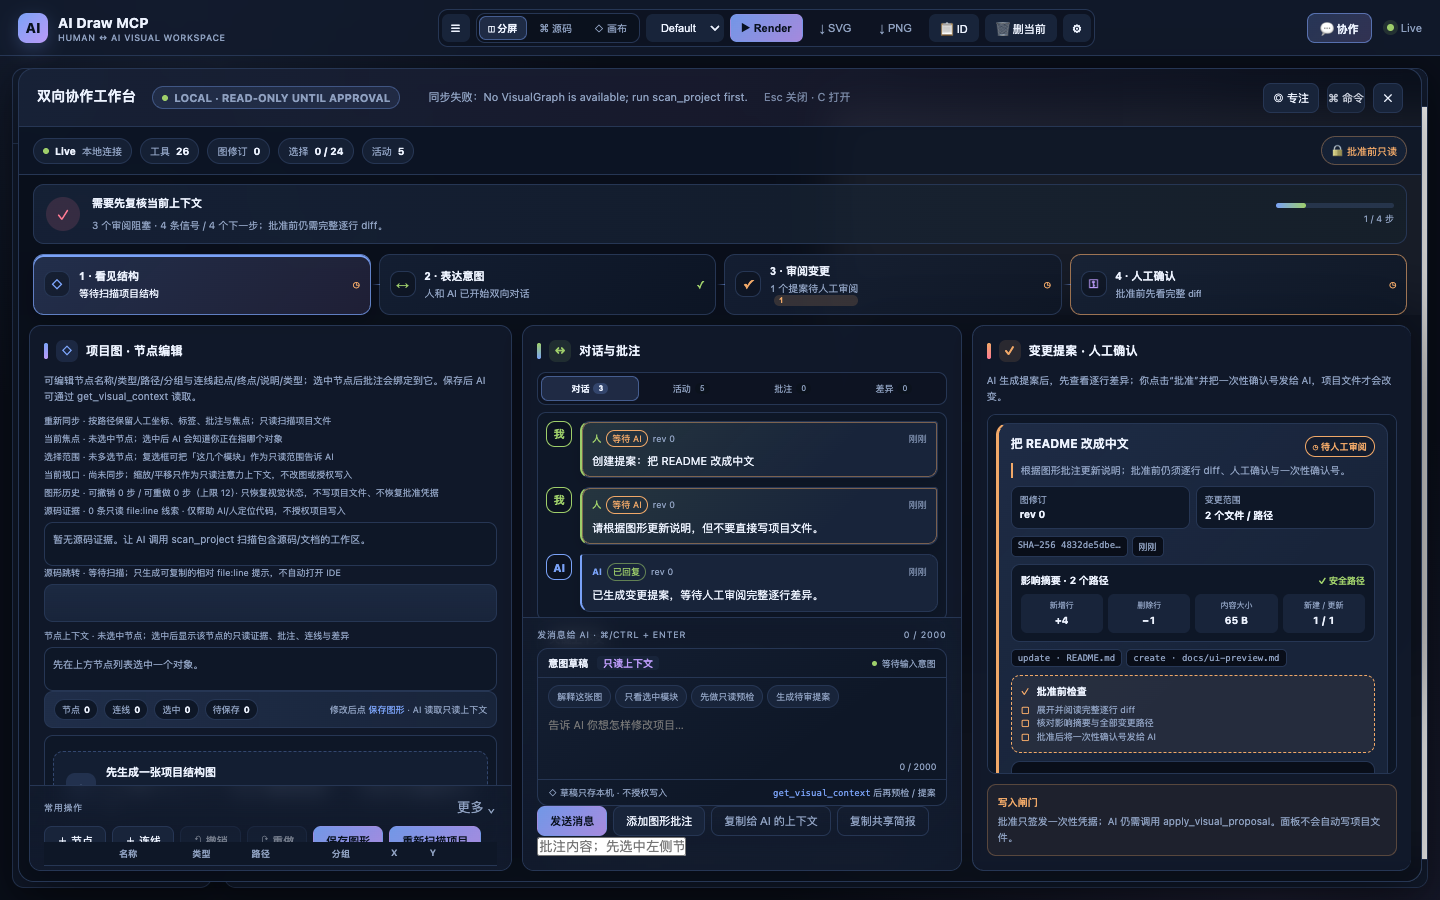
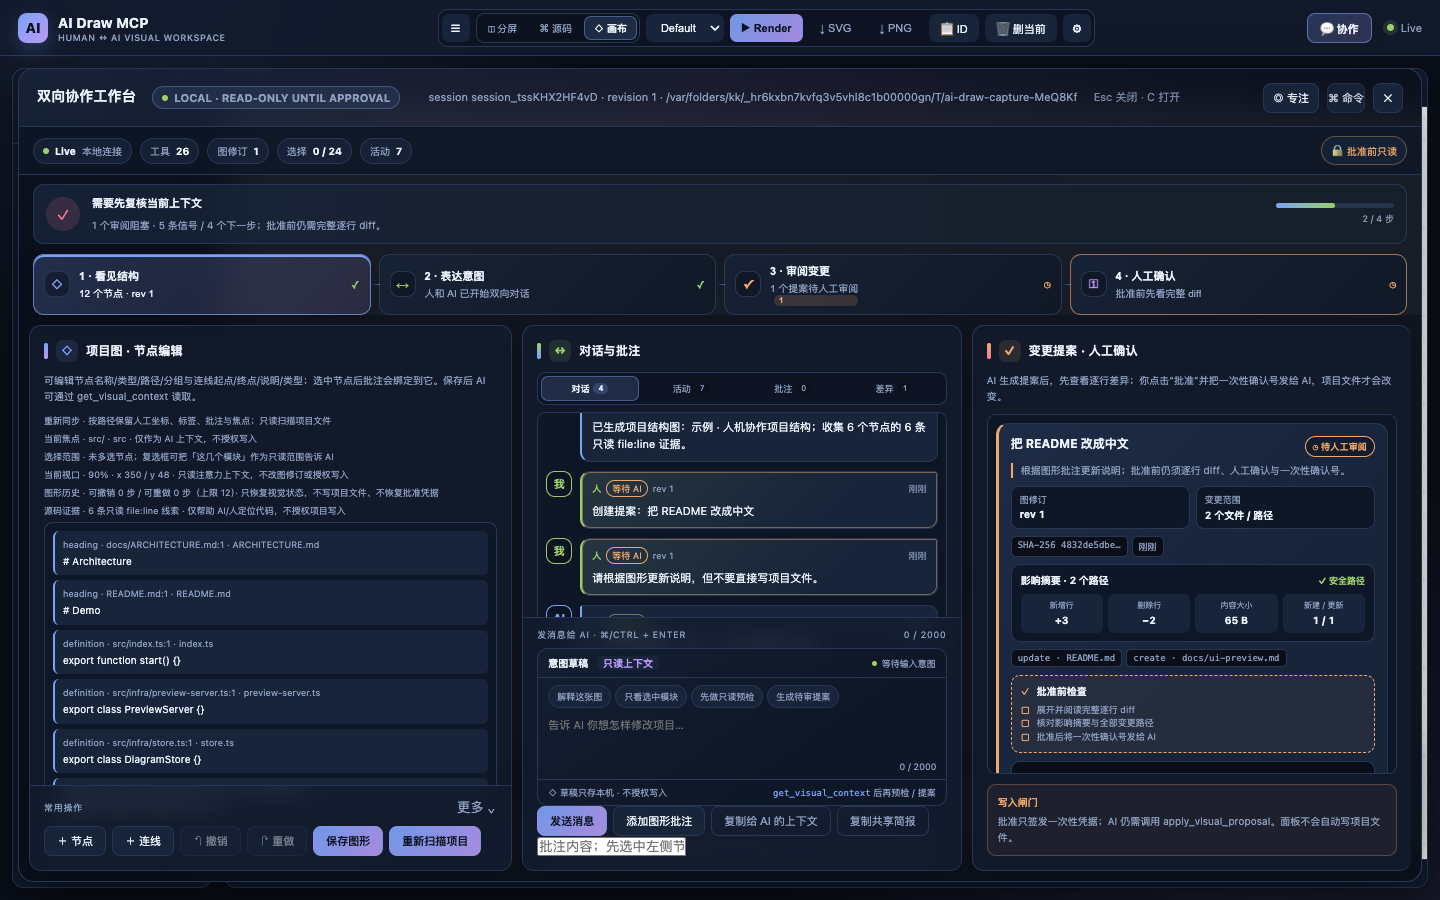
feat: polish canvas workbench and floating dock

diff --git a/src/infra/templates/index.html b/src/infra/templates/index.html
@@ -37,8 +37,13 @@
     body.theme-light .header, body.theme-light .collab-shell { background: rgba(255,255,255,.92); }
     body.theme-light .sidebar, body.theme-light .workspace, body.theme-light .pane, body.theme-light .collab-section { background: rgba(255,255,255,.86); }
     body.theme-light .collab-body { background: rgba(238,243,251,.72); }
-    body.theme-light .preview-wrap { background: #ffffff; }
-    body.theme-light .preview-wrap.dark-bg { background: radial-gradient(circle at 50% 30%, #33476b, #111c31); }
+  body.theme-light .preview-wrap { background-color: #ffffff; background-image: radial-gradient(rgba(99, 132, 191, .14) .8px, transparent .8px); }
+  body.theme-light .preview-wrap.dark-bg {
+    background-color: #111c31;
+    background-image: radial-gradient(circle at 50% 30%, #33476b, #111c31),
+                      radial-gradient(rgba(122, 162, 247, .14) .8px, transparent .8px);
+    background-size: auto, 22px 22px;
+  }
     body.theme-light .graph-editor, body.theme-light .chat-log, body.theme-light .proposal-list,
     body.theme-light .diagnostics-list, body.theme-light .empty-state { background: #f5f8fd; }
     body.theme-light #codeEditor { background: #f8fbff; color: #24334c; }
@@ -147,9 +152,16 @@
     /* Diagram preview */
     .preview-wrap {
       flex: 1; overflow: hidden; position: relative;
-      background: #ffffff;
+      background-color: #ffffff;
+      background-image: radial-gradient(rgba(99, 132, 191, .16) .8px, transparent .8px);
+      background-size: 22px 22px;
     }
-    .preview-wrap.dark-bg { background: radial-gradient(circle at 50% 30%, #15243d, #0b1220); }
+    .preview-wrap.dark-bg {
+      background-color: #0b1220;
+      background-image: radial-gradient(circle at 50% 30%, #15243d, #0b1220),
+                        radial-gradient(rgba(122, 162, 247, .14) .8px, transparent .8px);
+      background-size: auto, 22px 22px;
+    }
     .welcome-card {
       position: absolute; inset: 50% auto auto 50%; z-index: 12;
       width: min(720px, calc(100% - 48px)); transform: translate(-50%, -50%);
@@ -159,6 +171,7 @@
       box-shadow: 0 28px 80px rgba(0,0,0,.54), inset 0 1px 0 rgba(255,255,255,.06);
       text-align: left; pointer-events: auto;
     }
+    .welcome-card[hidden] { display: none; }
     .welcome-main { padding: 26px 25px 22px; }
     .welcome-kicker { display: inline-flex; align-items: center; gap: 6px; margin-bottom: 14px; padding: 4px 9px; border: 1px solid rgba(122,162,247,.42); border-radius: 999px; background: rgba(122,162,247,.10); color: var(--accent); font-size: 9px; font-weight: 800; letter-spacing: .07em; }
     .welcome-kicker::before { content: ''; width: 6px; height: 6px; border-radius: 50%; background: var(--green); box-shadow: 0 0 0 4px rgba(158,206,106,.14); }
@@ -216,13 +229,14 @@
     #minimap {
       position: absolute; bottom: 14px; right: 14px; z-index: 20;
       width: 168px; height: 112px;
-      background: rgba(9, 14, 25, 0.88);
+      background: #eef3fb;
       border: 1px solid var(--border);
       border-radius: 10px; overflow: hidden;
       box-shadow: 0 8px 24px rgba(0,0,0,.45);
       backdrop-filter: blur(10px);
       cursor: crosshair;
     }
+    .preview-wrap.dark-bg #minimap { background: #0f1b2f; }
     #minimapContent {
       position: absolute; inset: 0; overflow: hidden;
     }
@@ -385,6 +399,43 @@
     .canvas-chip::before { content: ''; width: 6px; height: 6px; border-radius: 50%; background: var(--accent); }
     .workspace[data-view="canvas"] .canvas-chip { display: flex; }
     .workspace.welcome #minimap, .workspace.welcome .canvas-chip { display: none; }
+    .canvas-dock {
+      position: absolute; left: 14px; bottom: 14px; z-index: 22; display: none;
+      align-items: center; gap: 9px; padding: 6px 7px; border: 1px solid var(--border);
+      border-radius: 13px; background: rgba(9,14,25,.9); box-shadow: 0 10px 28px rgba(0,0,0,.28);
+      backdrop-filter: blur(14px);
+    }
+    .workspace:not(.welcome) .canvas-dock { display: flex; }
+    .workspace[data-view="canvas"] .canvas-dock { bottom: 54px; }
+    .canvas-dock-status {
+      display: flex; align-items: center; gap: 7px; min-width: 0; padding: 0 5px 0 3px;
+      border-right: 1px solid var(--border);
+    }
+    .canvas-dock-status::before {
+      content: ''; width: 7px; height: 7px; flex-shrink: 0; border-radius: 50%;
+      background: var(--green); box-shadow: 0 0 0 4px rgba(158,206,106,.12);
+    }
+    .canvas-dock-label { min-width: 0; }
+    .canvas-dock-label strong { display: block; overflow: hidden; max-width: 150px; color: var(--text); font-size: 10px; text-overflow: ellipsis; white-space: nowrap; }
+    .canvas-dock-label span { display: block; color: var(--text-muted); font-size: 8px; letter-spacing: .05em; text-transform: uppercase; }
+    .canvas-dock-group { display: flex; align-items: center; gap: 2px; padding: 2px; border: 1px solid var(--border); border-radius: 9px; background: rgba(0,0,0,.14); }
+    .canvas-dock button { height: 27px; padding: 0 8px; border: 1px solid transparent; border-radius: 7px; background: transparent; color: var(--text-muted); font-size: 10px; cursor: pointer; transition: color .15s, background .15s, border-color .15s, transform .15s; }
+    .canvas-dock button:hover { border-color: rgba(122,162,247,.45); background: rgba(122,162,247,.13); color: var(--text); transform: translateY(-1px); }
+    .canvas-dock button.primary { background: rgba(122,162,247,.16); color: var(--accent); font-weight: 700; }
+    .canvas-dock button[aria-pressed="true"] { background: rgba(122,162,247,.18); color: var(--accent); }
+    .canvas-dock .zoom-readout { min-width: 40px; padding: 0 4px; color: var(--text); font-size: 10px; font-variant-numeric: tabular-nums; font-weight: 700; text-align: center; }
+    .canvas-dock-divider { width: 1px; height: 20px; margin: 0 1px; background: var(--border); }
+    body.theme-light .canvas-dock { background: rgba(255,255,255,.92); }
+    body.theme-light .canvas-dock-group { background: #f2f6fd; }
+    @media (max-width: 860px) {
+      .canvas-dock-status { display: none; }
+      .canvas-dock { gap: 4px; }
+    }
+    @media (max-width: 620px) {
+      .canvas-dock { left: 7px; right: 7px; bottom: 7px; overflow-x: auto; }
+      .workspace[data-view="canvas"] .canvas-dock { bottom: 46px; }
+      .canvas-dock button { flex: 0 0 auto; }
+    }
     button:focus-visible, select:focus-visible, input:focus-visible, textarea:focus-visible, summary:focus-visible {
       outline: 2px solid rgba(122,162,247,.85); outline-offset: 2px;
     }
@@ -1034,6 +1085,21 @@
             <div id="minimapContent"></div>
             <div id="minimapViewport"></div>
           </div>
+          <div class="canvas-dock" aria-label="画布快捷操作">
+            <div class="canvas-dock-status">
+              <div class="canvas-dock-label"><strong id="canvasDiagramLabel">本机预览</strong><span>Live · read-only until approval</span></div>
+            </div>
+            <div class="canvas-dock-group">
+              <button type="button" id="btnCanvasZoomOut" title="缩小">−</button>
+              <span class="zoom-readout" id="canvasZoomLabel">100%</span>
+              <button type="button" id="btnCanvasZoomIn" title="放大">＋</button>
+              <button type="button" id="btnCanvasZoomFit" title="适应窗口 (F)">⊡ 适应</button>
+            </div>
+            <button type="button" id="btnCanvasBackdrop" aria-pressed="false" title="切换画布背景">◐ 背景</button>
+            <div class="canvas-dock-divider" aria-hidden="true"></div>
+            <button type="button" id="btnCanvasCollab" class="primary" title="打开双向协作工作台 (C)">↔ 协作</button>
+            <button type="button" id="btnCanvasCommands" title="打开命令面板 (?)">⌘</button>
+          </div>
           <div class="canvas-chip">画布模式 · 滚轮缩放 / 拖拽平移 / F 适应窗口</div>
         </div>
       </div>
@@ -1393,26 +1459,53 @@ function scheduleViewportSync() {
 
 function applyTransform() {
   $('#diagramRender').style.transform = `translate(${zX}px,${zY}px) scale(${zScale})`;
-  $('#zoomLabel').textContent = `${Math.round(zScale * 100)}%`;
+  const zoomLabel = `${Math.round(zScale * 100)}%`;
+  $('#zoomLabel').textContent = zoomLabel;
+  $('#canvasZoomLabel').textContent = zoomLabel;
+  updateCanvasDock();
   scheduleMinimapUpdate();
   scheduleViewportSync();
 }
 
+function updateCanvasDock() {
+  const title = $('#diagramTitle').textContent.trim();
+  const meaningfulTitle = title && title !== '—' ? title : '本机预览';
+  $('#canvasDiagramLabel').textContent = meaningfulTitle;
+  $('#canvasDiagramLabel').title = meaningfulTitle;
+}
+
 function resetView() { zScale = 1; zX = 0; zY = 0; applyTransform(); }
+
+function naturalSvgSize(svg) {
+  const width = Number.parseFloat(svg?.getAttribute('width'));
+  const height = Number.parseFloat(svg?.getAttribute('height'));
+  if (Number.isFinite(width) && Number.isFinite(height) && width > 0 && height > 0) {
+    return { width, height };
+  }
+  const viewBox = svg?.viewBox?.baseVal;
+  if (viewBox && viewBox.width > 0 && viewBox.height > 0) {
+    return { width: viewBox.width, height: viewBox.height };
+  }
+  return {
+    width: 0,
+    height: 0,
+  };
+}
 
 function fitView() {
   const wrap = $('#previewWrap');
   const render = $('#diagramRender');
   const svg = render.querySelector('svg');
   if (!svg) { resetView(); return; }
-  const svgW = svg.getBoundingClientRect().width / zScale;
-  const svgH = svg.getBoundingClientRect().height / zScale;
+  const { width: svgW, height: svgH } = naturalSvgSize(svg);
   if (!svgW || !svgH) { resetView(); return; }
-  const padW = wrap.clientWidth - 40, padH = wrap.clientHeight - 40;
-  const newScale = Math.min(padW / svgW, padH / svgH, 2);
+  const canvasMode = $('#workspace').dataset.view === 'canvas';
+  const padW = wrap.clientWidth - (canvasMode ? 92 : 64);
+  const padH = wrap.clientHeight - (canvasMode ? 128 : 96);
+  const newScale = Math.min(padW / svgW, padH / svgH, 3.2);
   zScale = Math.max(0.05, newScale);
   zX = (wrap.clientWidth  - svgW * zScale) / 2;
-  zY = (wrap.clientHeight - svgH * zScale) / 2;
+  zY = (wrap.clientHeight - svgH * zScale) / 2 - (canvasMode ? 16 : 0);
   applyTransform();
 }
 
@@ -1467,6 +1560,11 @@ $('#btnZoomOut').addEventListener('click', () => {
 });
 $('#btnZoomFit').addEventListener('click',   () => fitView());
 $('#btnZoomReset').addEventListener('click', () => resetView());
+$('#btnCanvasZoomIn').addEventListener('click', () => $('#btnZoomIn').click());
+$('#btnCanvasZoomOut').addEventListener('click', () => $('#btnZoomOut').click());
+$('#btnCanvasZoomFit').addEventListener('click', () => fitView());
+$('#btnCanvasCollab').addEventListener('click', () => openCollab());
+$('#btnCanvasCommands').addEventListener('click', () => openCommandPalette());
 
 // Keyboard: F=fit, 0=reset, +/- zoom
 window.addEventListener('keydown', (e) => {
@@ -1538,8 +1636,9 @@ function getContentMetrics() {
   const svgEl = $('#diagramRender svg');
   if (!svgEl) return null;
   const pad  = 20;
-  const svgW = parseFloat(svgEl.getAttribute('width'))  || svgEl.viewBox?.baseVal?.width  || 800;
-  const svgH = parseFloat(svgEl.getAttribute('height')) || svgEl.viewBox?.baseVal?.height || 600;
+  const natural = naturalSvgSize(svgEl);
+  const svgW = natural.width || 800;
+  const svgH = natural.height || 600;
   const contentW = svgW + pad * 2;
   const contentH = svgH + pad * 2;
   const mmScale  = Math.min(MM_W / contentW, MM_H / contentH) * 0.92;
@@ -1553,9 +1652,13 @@ function refreshMinimapImage() {
   minimapContent.innerHTML = '';
   if (!svgEl) { minimapVP.style.display = 'none'; return; }
   const clone = svgEl.cloneNode(true);
-  clone.style.position     = 'absolute';
+  clone.removeAttribute('style');
+  clone.removeAttribute('width');
+  clone.removeAttribute('height');
+  clone.style.position = 'absolute';
   clone.style.pointerEvents = 'none';
   clone.style.transformOrigin = '0 0';
+  clone.style.transform = 'none';
   minimapContent.appendChild(clone);
   scheduleMinimapUpdate();
 }
@@ -1568,8 +1671,6 @@ function renderMinimapNow() {
   // Position the cloned SVG
   const cloneSvg = minimapContent.querySelector('svg');
   if (cloneSvg) {
-    cloneSvg.setAttribute('width',  String(m.svgW));
-    cloneSvg.setAttribute('height', String(m.svgH));
     cloneSvg.style.left   = `${m.offX + m.pad * m.mmScale}px`;
     cloneSvg.style.top    = `${m.offY + m.pad * m.mmScale}px`;
     cloneSvg.style.width  = `${m.svgW * m.mmScale}px`;
@@ -1649,8 +1750,9 @@ async function renderDiagram(code, keepView = false) {
     // preserve natural size in viewBox, then let CSS transform handle scaling.
     const svgEl = container.querySelector('svg');
     if (svgEl) {
-      const w = parseFloat(svgEl.getAttribute('width'))  || svgEl.viewBox?.baseVal?.width  || 0;
-      const h = parseFloat(svgEl.getAttribute('height')) || svgEl.viewBox?.baseVal?.height || 0;
+      const natural = naturalSvgSize(svgEl);
+      const w = natural.width;
+      const h = natural.height;
       if (w && h && !svgEl.getAttribute('viewBox')) {
         svgEl.setAttribute('viewBox', `0 0 ${w} ${h}`);
       }
@@ -1703,11 +1805,17 @@ const EXAMPLE_MERMAID = `flowchart LR
   Approval -->|一次性确认号| Apply[AI 应用变更]
   Apply --> Graph`;
 
-function showWelcome(visible) {
+function showWelcome(visible = true) {
   const card = $('#welcomeCard');
   if (!card) return;
-  card.hidden = !visible;
-  $('#workspace').classList.toggle('welcome', visible);
+  const show = Boolean(visible) && !$('#diagramRender svg') && !$('#codeEditor').value.trim();
+  card.hidden = !show;
+  $('#workspace').classList.toggle('welcome', show);
+  updateCanvasDock();
+}
+
+function syncWelcomeState() {
+  showWelcome(!$('#diagramRender svg') && !$('#codeEditor').value.trim());
 }
 
 function loadExampleDiagram() {
@@ -1716,6 +1824,7 @@ function loadExampleDiagram() {
   $('#charCount').textContent = `${EXAMPLE_MERMAID.length} chars`;
   $('#diagramTitle').textContent = '示例 · 人机协作闭环';
   $('#statusMsg').textContent = '示例图形已载入本地编辑器';
+  syncWelcomeState();
   renderPreview();
   showToast('示例已载入；未创建图、未写项目文件');
 }
@@ -1732,6 +1841,7 @@ $('#codeEditor').addEventListener('input', () => {
   clearTimeout(renderTimer);
   const code = $('#codeEditor').value;
   $('#charCount').textContent = `${code.length} chars`;
+  if (!code.trim()) showWelcome(true);
   renderTimer = setTimeout(() => renderPreview(), 400);
 });
 
@@ -1767,6 +1877,7 @@ function setPreviewBackground(mode) {
   prefs.darkBg = dark;
   savePrefs();
   syncAppearanceControls();
+  showToast(dark ? '已切换深色点阵画布' : '已切换浅色点阵画布');
 }
 
 function setSidebarCollapsed(collapsed) {
@@ -1795,6 +1906,8 @@ function syncAppearanceControls() {
   for (const button of document.querySelectorAll('[data-sidebar]')) {
     button.classList.toggle('active', button.dataset.sidebar === (prefs.sidebarCollapsed ? 'collapsed' : 'open'));
   }
+  $('#btnCanvasBackdrop').setAttribute('aria-pressed', String(prefs.darkBg));
+  $('#btnCanvasBackdrop').classList.toggle('active', prefs.darkBg);
   $('#btnToggleSidebar').textContent = prefs.sidebarCollapsed ? '⟩' : '☰';
 }
 
@@ -1802,6 +1915,7 @@ $('#btnToggleSidebar').addEventListener('click', () => setSidebarCollapsed(!pref
 for (const button of document.querySelectorAll('[data-preview-bg]')) {
   button.addEventListener('click', () => setPreviewBackground(button.dataset.previewBg));
 }
+$('#btnCanvasBackdrop').addEventListener('click', () => setPreviewBackground(prefs.darkBg ? 'light' : 'dark'));
 for (const button of document.querySelectorAll('[data-sidebar]')) {
   button.addEventListener('click', () => setSidebarCollapsed(button.dataset.sidebar === 'collapsed'));
 }
@@ -1906,6 +2020,7 @@ $('#btnDeleteDiagram').addEventListener('click', async () => {
     showToast('已删除');
     currentId = null;
     $('#diagramTitle').textContent = '—';
+  updateCanvasDock();
     $('#codeEditor').value = '';
     $('#diagramRender').innerHTML = '';
     loadList();
@@ -2133,6 +2248,8 @@ async function loadDiagram(id) {
     const kind = data.editorKind === 'svg' ? 'svg' : 'mermaid';
     setEditorKind(kind);
     $('#diagramTitle').textContent = data.title || id;
+    updateCanvasDock();
+    syncWelcomeState();
 
     if (kind === 'mermaid' && data.mermaidCode != null) {
       $('#codeEditor').value = data.mermaidCode;
@@ -2190,6 +2307,7 @@ function connectWs() {
         if (currentId === msg.id) {
           currentId = null;
           $('#diagramTitle').textContent = '—';
+          updateCanvasDock();
           $('#codeEditor').value = '';
           $('#diagramRender').innerHTML = '';
         }
@@ -2201,6 +2319,7 @@ function connectWs() {
       if (msg.type === 'diagram_update' || msg.type === 'diagram_added') {
         currentId = msg.id;
         if (msg.title) $('#diagramTitle').textContent = msg.title;
+        updateCanvasDock();
         if (msg.mermaidCode && String(msg.mermaidCode).trim()) {
           setEditorKind('mermaid');
           $('#codeEditor').value = msg.mermaidCode;
@@ -3827,7 +3946,7 @@ $('#btnAddAnnotation').addEventListener('click', addAnnotation);
 // ── Init ──
 loadList();
 connectWs();
-showWelcome(true);
+syncWelcomeState();
 
 // Restore last viewed diagram (URL path takes priority)
 const pathMatch = location.pathname.match(/\/diagram\/(.+)/);
@@ -3836,6 +3955,7 @@ if (pathMatch) {
 } else if (prefs.lastDiagramId) {
   loadDiagram(prefs.lastDiagramId);
 }
+syncWelcomeState();
 
 $('#welcomeCard').addEventListener('click', (event) => event.stopPropagation());
 $('#diagramSearch').addEventListener('input', () => {

diff --git a/CHANGELOG.md b/CHANGELOG.md
@@ -12,6 +12,7 @@ The format is based on [Keep a Changelog](https://keepachangelog.com/en/1.1.0/),
 
 ### Maintenance
 
+- 画布工作区与浮动操作条（2026-11-06 13:05 CST）：真实图形出现后，点阵预览区左下角新增常驻快捷条，显示当前图形名称与实时缩放百分比，并提供放大、缩小、适应窗口、切换画布背景、打开协作工作台与命令面板六个动作；画布模式下自动避开底部状态 chip，空白欢迎态自动隐藏，窄屏改成横向可滚动。首用欢迎卡改为按「预览区是否已有 SVG」派生，加载示例或打开已保存图后不再遮挡真实图形。预览背景新增细点阵，浮动按钮复用已有缩放与外观偏好函数，不新增接口、不改视口协议或写入闸门。`npm run ui:shots` 现在扫描一个临时示例项目、生成第四张 `docs/canvas-workbench-panel.png` 画布工作区截图，并让协作工作台截图基于真实结构图与焦点节点；浏览器回归、离线守卫与 README 同步覆盖。
 - 图形编辑状态条（2026-11-06 12:50 CST）：节点编辑区上方新增紧凑状态条，实时显示节点数、连线数、选择范围与待保存行数；待保存状态用橙色强调，并与既有 dirty 提示、保存按钮、流程导航共享同一份本地派生状态。状态条不新增服务端字段、不改图修订或批准流程；浏览器回归与离线守卫同步覆盖。
 - 意图输入体验（2026-11-06 12:35 CST）：对话操作栏改成「意图草稿」卡片，加入本机草稿恢复、四个快捷意图模板、发送中/成功/失败状态、主按钮草稿高亮与「先读上下文再预检/提案」的只读提示。模板只填入本机输入框，不自动发送；发送成功才清空草稿，失败保留原文。命令面板也加入「解释这张图」快捷动作。草稿只在浏览器 localStorage，不进入协作会话、不签发凭据、不调用项目写入；浏览器回归、离线守卫、README 与截图脚本同步覆盖。
 - 协作专注模式（2026-11-06 12:20 CST）：工作台顶栏新增「◎ 专注」开关、`7` 快捷键与命令面板动作；开启后隐藏概览统计、健康卡与四步流程条，放大项目图 / 对话 / 提案三栏，并显示专注状态徽章。偏好写入本机 localStorage，刷新后保持，但只影响布局；不改会话、提案、批准凭据或写入闸门。`npm run ui:shots` 现在额外生成 `docs/collaboration-focus-panel.png`，README 直接展示放大后的工作台；浏览器回归、离线守卫、快捷键表与 CHANGELOG 同步覆盖。

diff --git a/README.md b/README.md
@@ -37,9 +37,13 @@
 
 ![AI Draw MCP 新版预览面板](https://raw.githubusercontent.com/2648782102/ai-draw-mcp/master/docs/preview-panel.png)
 
-新版界面采用品牌化顶栏、玻璃感导航、卡片式侧栏与圆角工作区；空白画布的首用卡把「AI 生成 → 共同结构图 → 人修改确认 → 提案审阅」画成可见闭环，并给出分屏、协作与流程快捷键。它同时保留滚轮缩放、拖拽平移、右下角小地图导航、双击重置、适应窗口（`F` 键）、明暗背景切换、SVG/PNG 导出等能力。
+新版界面采用品牌化顶栏、玻璃感导航、卡片式侧栏与圆角工作区；空白画布的首用卡把「AI 生成 → 共同结构图 → 人修改确认 → 提案审阅」画成可见闭环，并给出分屏、协作与流程快捷键。图形出现后，点阵画布左下角会出现常驻浮动操作条：显示当前图形名称与缩放百分比，并提供放大/缩小、适应窗口、切换画布背景、进入协作工作台与命令面板六个动作。它同时保留滚轮缩放、拖拽平移、右下角小地图导航、双击重置、适应窗口（`F` 键）、明暗背景切换、SVG/PNG 导出等能力。
 
 顶部可在「分屏 / 源码 / 画布」之间切换（`1` / `2` / `3`），视图偏好会保存在本机；⚙ 外观面板集中控制浅色/深色主题、舒适/紧凑密度、预览背景、图表库显示与快捷键表。按 `?` 或点击「⌘ 命令」打开可搜索命令面板，`↑ / ↓ + Enter` 执行视图、协作、外观与示例动作；协作工作台支持 `C` 打开、`Esc` 关闭、`4` / `5` / `6` 切换项目图 / 对话 / 提案，并在窄屏自动变成标签页。
+
+![AI Draw MCP 画布工作区](https://raw.githubusercontent.com/2648782102/ai-draw-mcp/master/docs/canvas-workbench-panel.png)
+
+画布工作区截图由 `npm run ui:shots` 使用临时示例项目可复现生成：AI 扫描出的目录与文件先成为一张真实结构图，人类把它切到全屏画布视图，再用浮动操作条控制视口与协作入口。截图里的示例节点、对话和提案只存在于临时会话，不代表仓库文件被自动修改。
 
 ### 双向协作工作台
 
